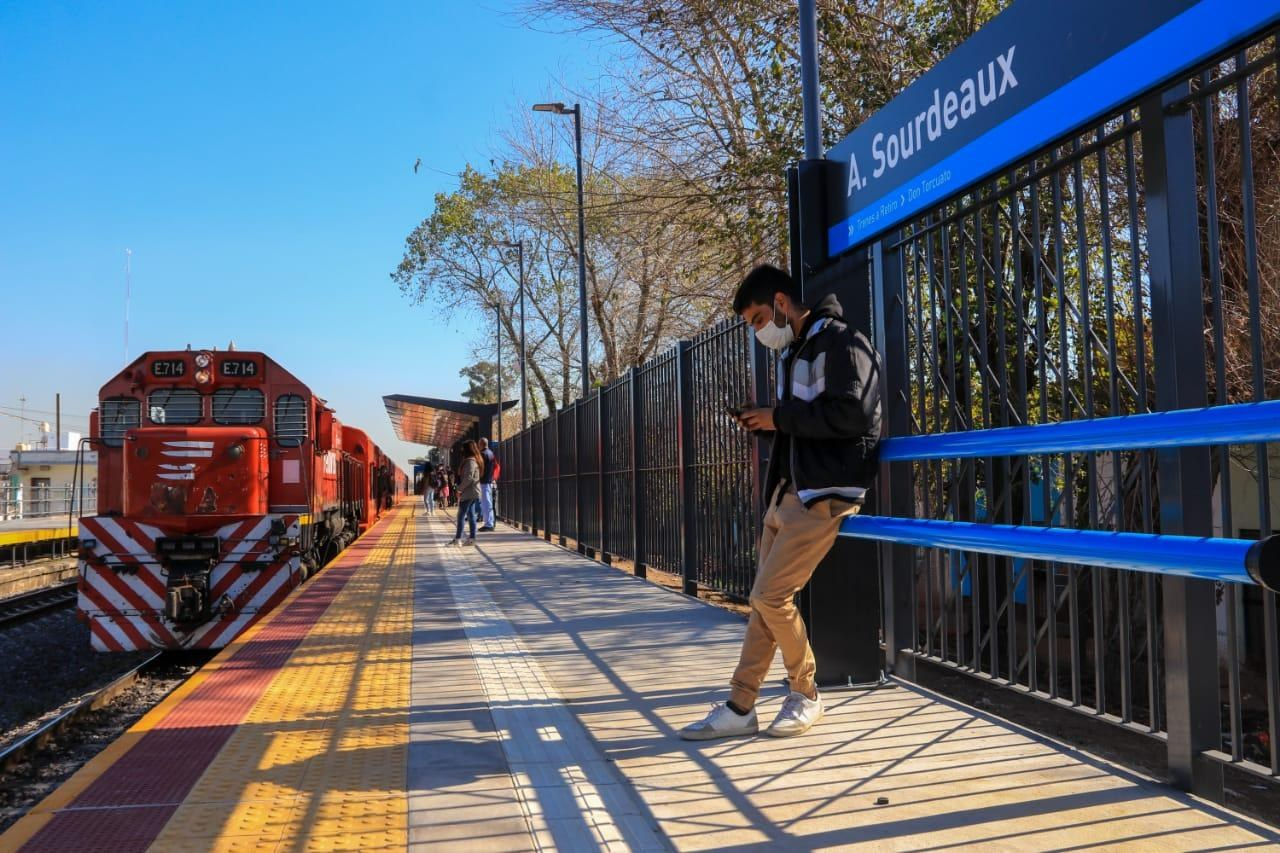
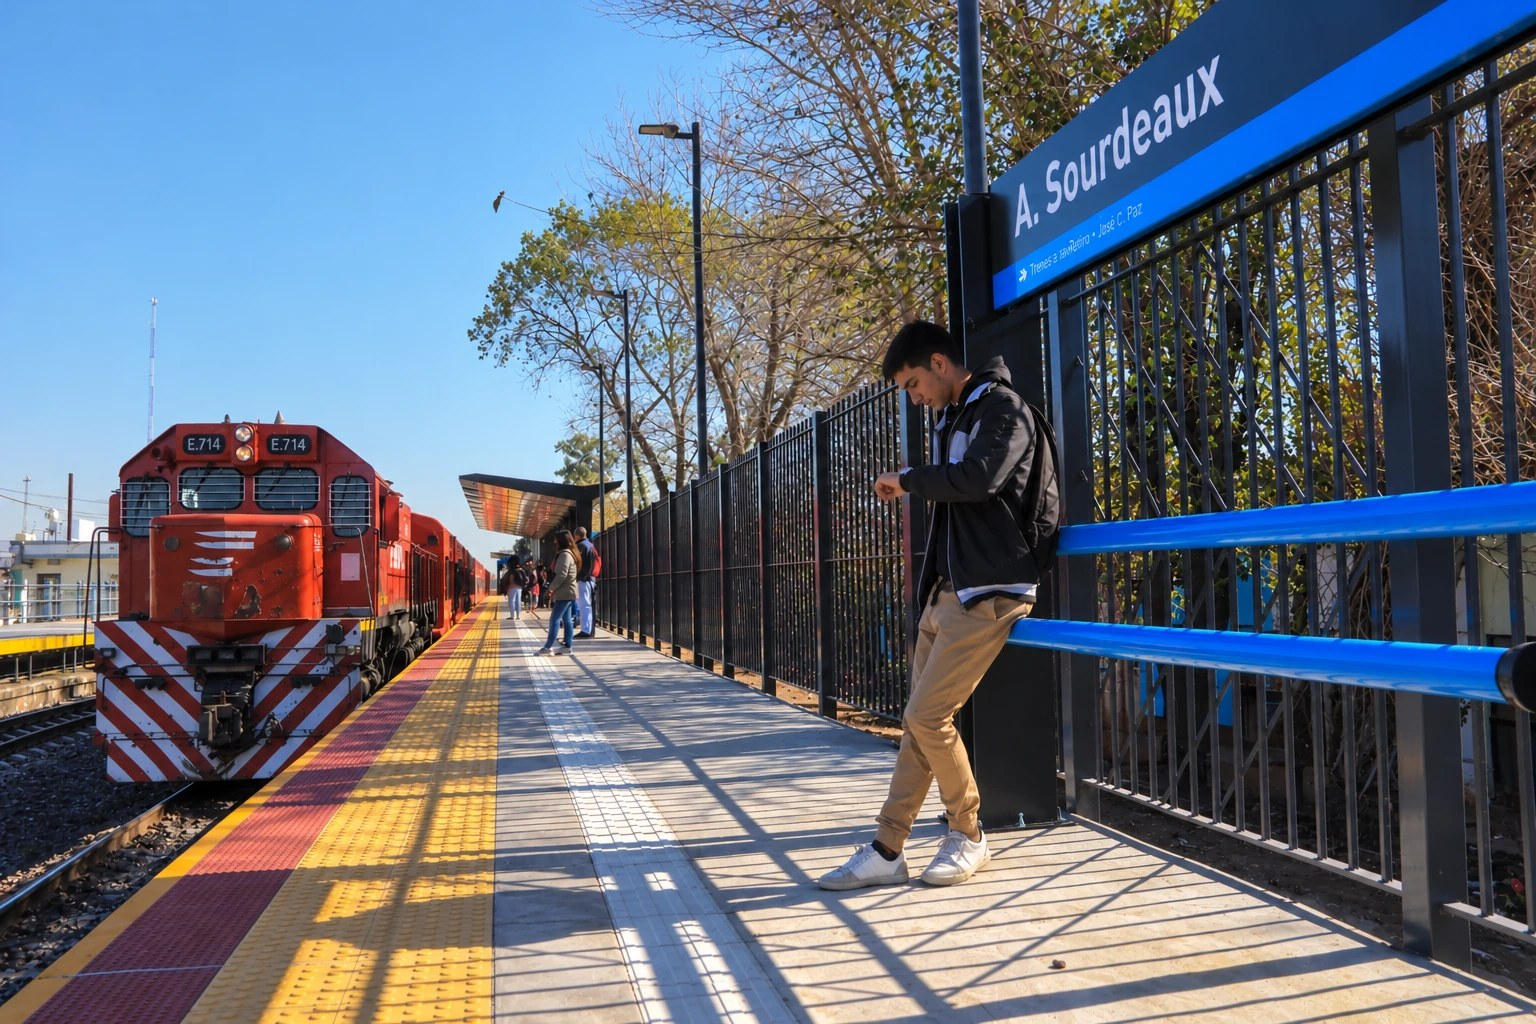
Transcripciones del LG: foto nueva centrada
Claude-Session: https://claude.ai/code/session_01Pr8SKF21Pk1nyBrjCdrAaq

diff --git a/modulos/relleno_pdf.py b/modulos/relleno_pdf.py
@@ -3,7 +3,7 @@ import streamlit as st
 
 st.title("Transcripciones del Libro de Guardia")
 st.info("Módulo en desarrollo.")
-# La imagen ocupa el 60 % del ancho.
-izq, _ = st.columns([3, 2])
-izq.image("static/imagenes/esperando_el_tren.jpg", width="stretch",
-          caption="Esperando que llegue este módulo.")
+# La imagen ocupa el 60 % del ancho, centrada.
+_, centro, _ = st.columns([1, 3, 1])
+centro.image("static/imagenes/esperando_el_tren.jpg", width="stretch",
+             caption="Esperando que llegue este módulo.")
